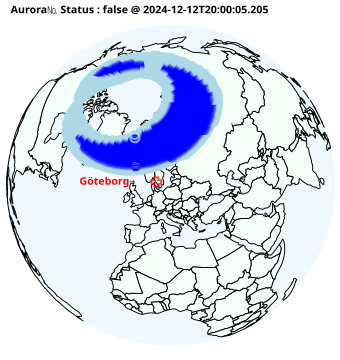
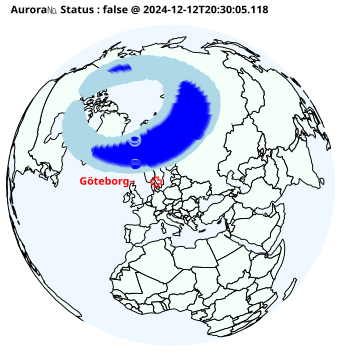
20241212203018 added aur.html

diff --git a/aur.html b/aur.html
@@ -7,6 +7,6 @@
 <body>
     <h1>Aurora Watch</h1>
     <img src="a.png" alt="Aurora Image" style="width:100%;max-width:600px;">
-    <p>Aurora Level 🌌= (0.0) was observed. (2024-12-12T20:00:05.205)</p>
+    <p>Aurora Level 🌌= (0.0) was observed. (2024-12-12T20:30:05.118)</p>
 </body>
 </html>
